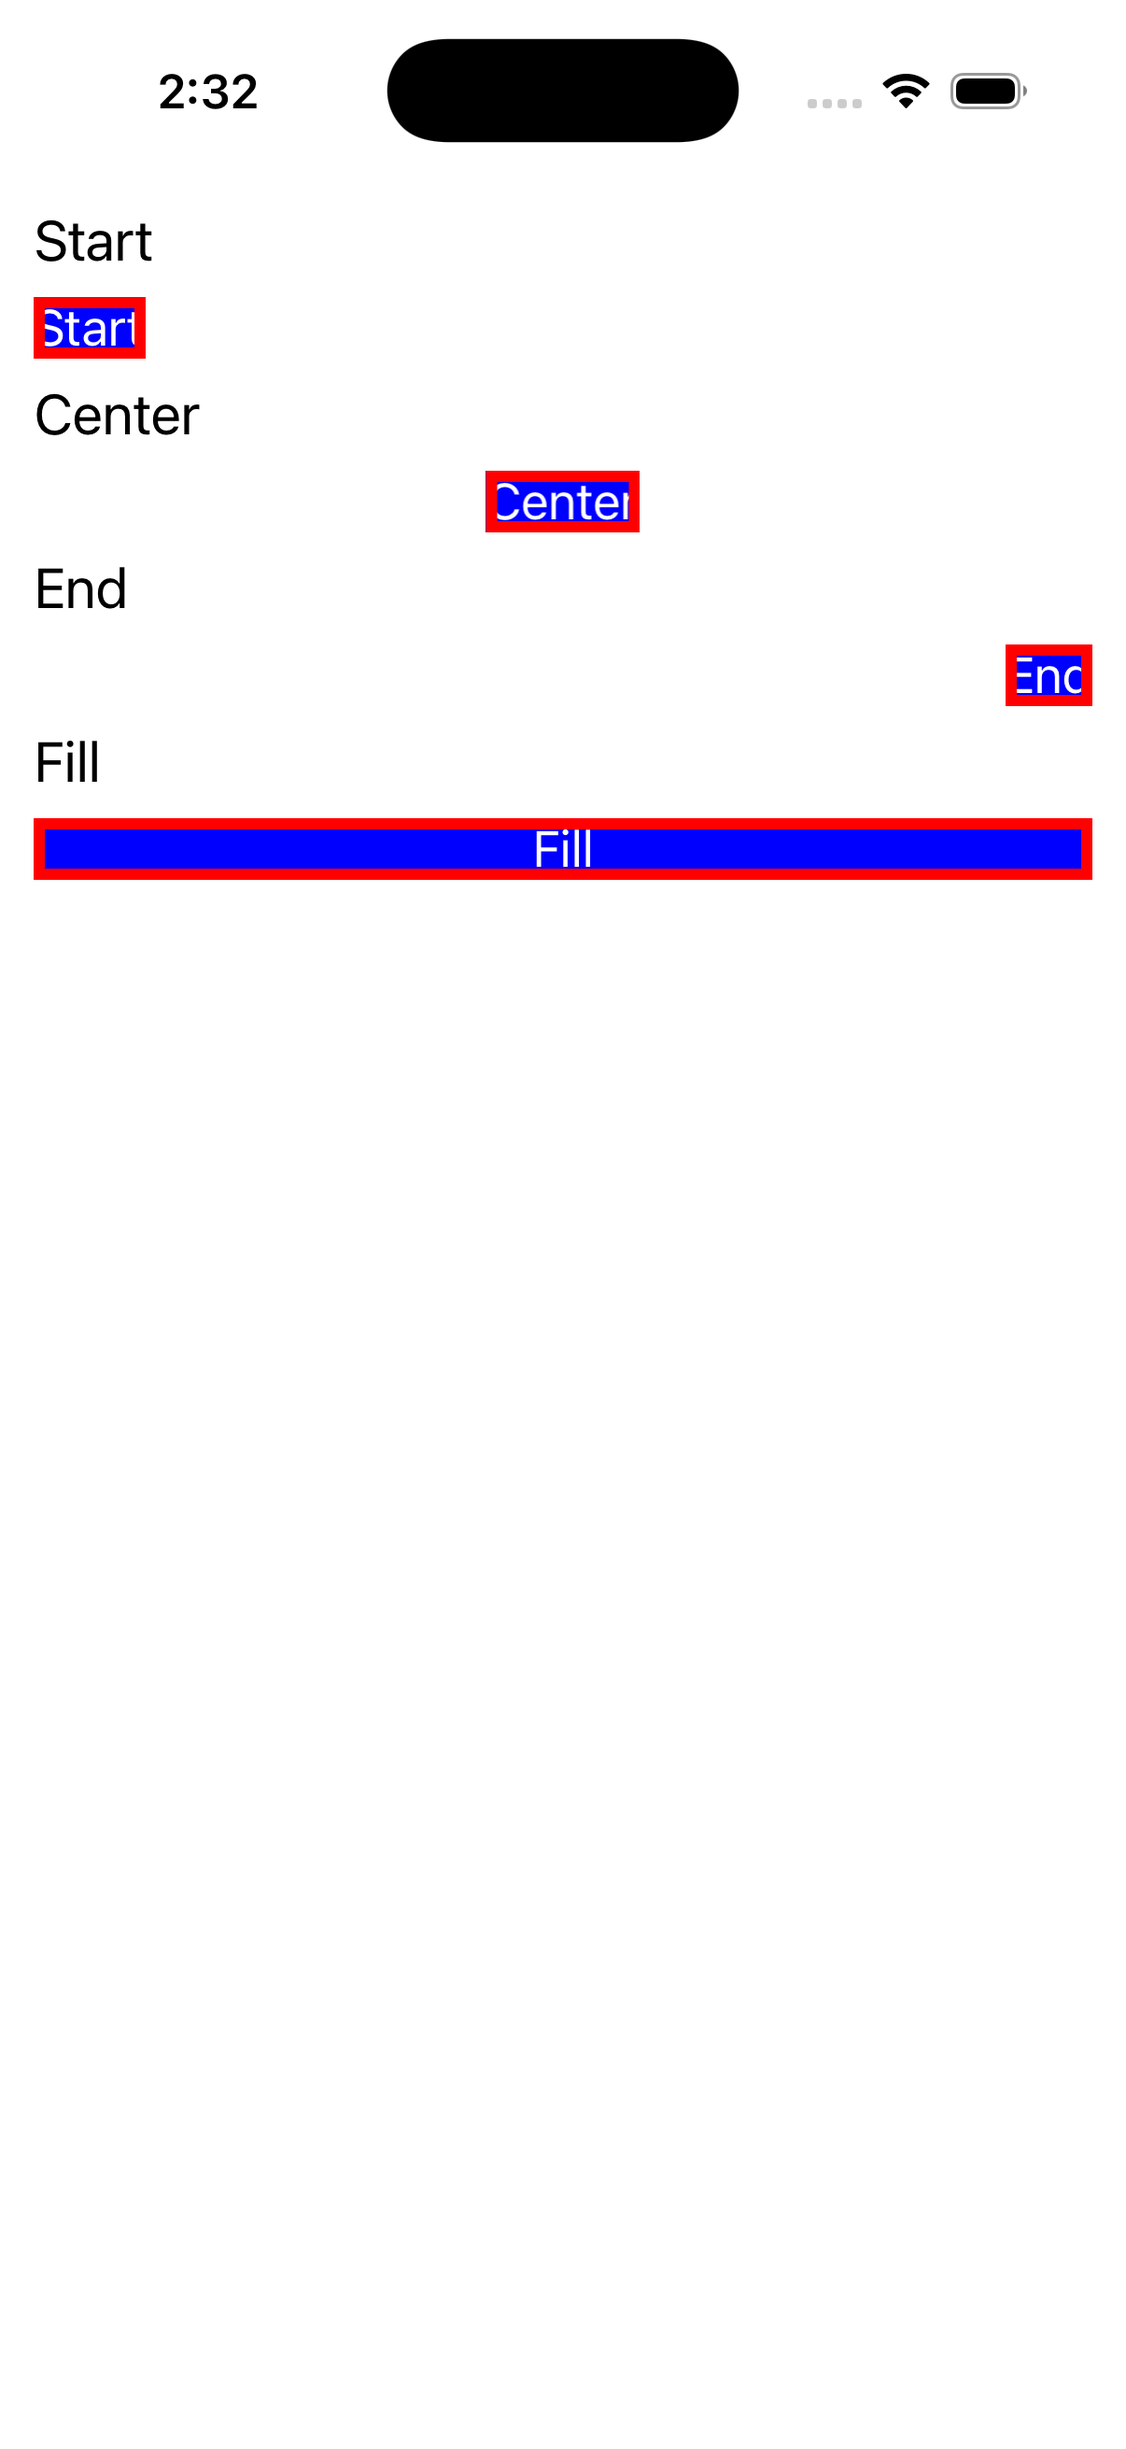
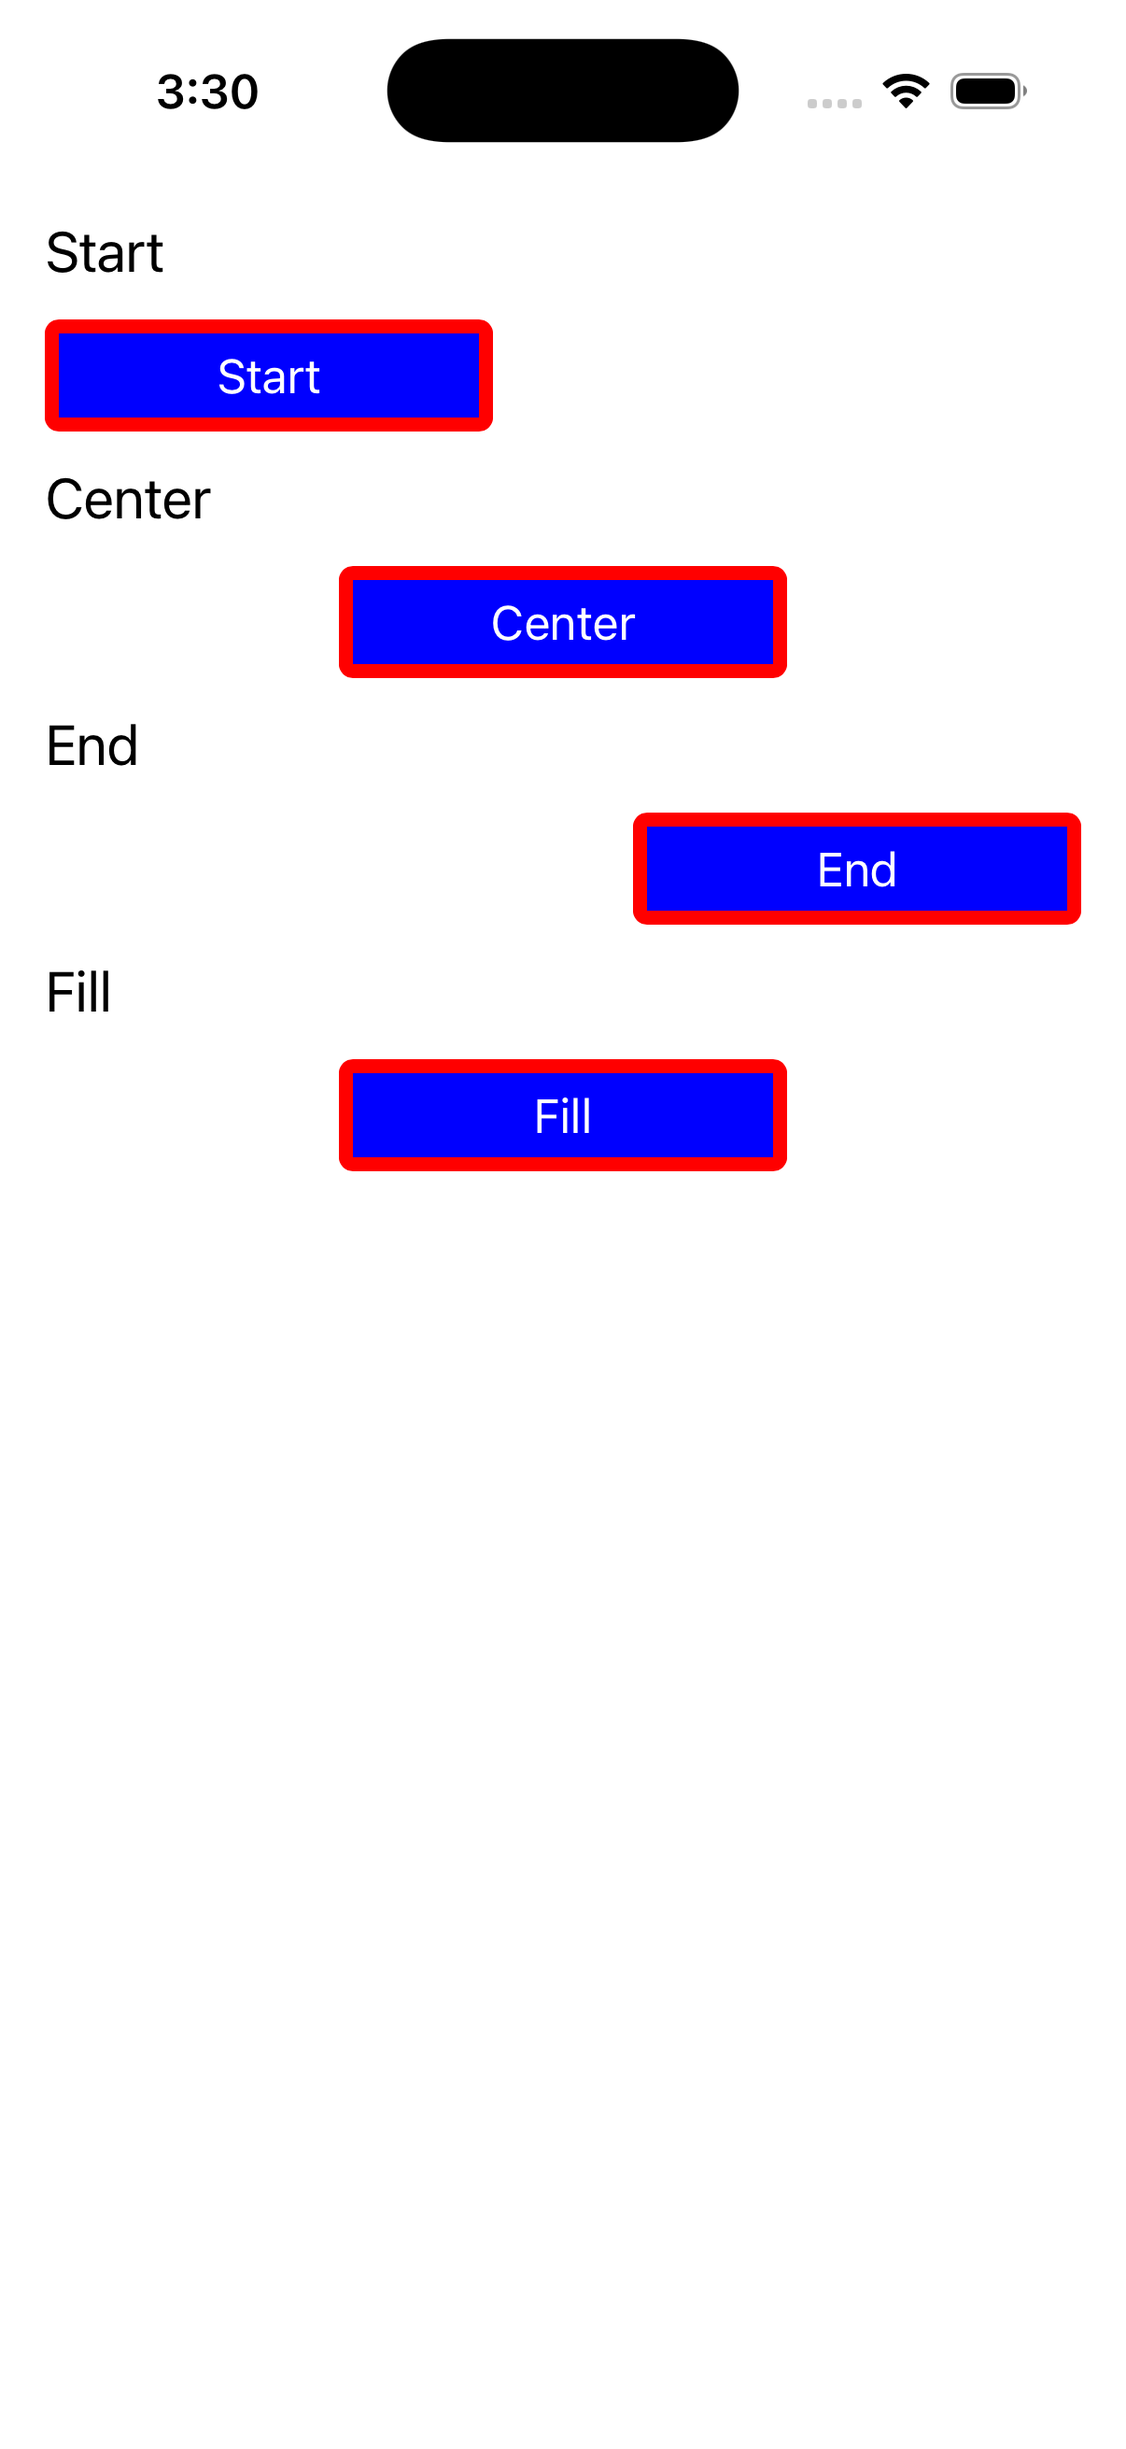
fix(border,samples): alignment demo matches maui-compare + border honors WidthRequest/alignment
- alignment_page rewritten to reproduce ComparePages.Alignment() 1:1: a
  Border (red 5pt stroke, RoundRectangle CR=5, FIXED 160x40) wrapping a
  centered blue/white Label, per HorizontalOptions Start/Center/End/Fill,
  FontSize=20 bold headers (was a button-based approximation).
- FRAMEWORK FIX: border::arrange filled the allotted cell (frame_ = bounds)
  instead of resolving its own aligned, size-requested frame. Now uses
  compute_frame(bounds) (the LayoutExtensions.ComputeFrame the leaf
  view<>::arrange runs) so a Border with WidthRequest + non-Fill alignment
  lands correctly: 160-wide Start(left)/Center+Fill(centered)/End(right),
  matching MAUI. Fill borders with no explicit size are unchanged.
  Verified on-sim both themes; full headless 3066/3066 green.
- Fixed shapes_page_tests.cpp (the shapes_page rewrite in 2d665e51c2 had
  left it referencing the removed canvas/box/marker API -> the test build
  was broken on the branch; now tests the Ellipse/Rectangle/Polygon/Line).

diff --git a/port/cpp/src/samples/pages/alignment_page.hpp b/port/cpp/src/samples/pages/alignment_page.hpp
@@ -1,32 +1,35 @@
 #pragma once
-// maui::samples::alignment_page — demonstrates per-child layout alignment (View.HorizontalOptions /
-// LayoutOptions Start/Center/End/Fill), the modern MAUI replacement for the legacy alignment knobs.
+// maui::samples::alignment_page — a faithful reproduction of the maui-compare "alignment" demo
+// (ComparePages.Alignment()), the shipped-.NET-MAUI reference for the visual-parity comparison.
 //
-// Mirrors the maui-compare "alignment" demo: a vertical stack of four sections, each a bold section
-// header label naming an alignment, followed by a button carrying that HorizontalOptions value. Because a
-// vertical_stack_layout gives every child the full stack width, each button's horizontal_layout_alignment
-// decides where it lands inside that width: Start = content-width pinned left, Center = centered, End =
-// pinned right, Fill = stretched edge-to-edge. The arrange-time ComputeFrame (view<>::align_horizontal,
-// ported from C# LayoutExtensions.AlignHorizontal) is what honors the value — this page is its visual
-// proof. The buttons are blue-filled with a red stroke and white text so the alignment is unmistakable.
+// A VerticalStackLayout (Spacing 12, Padding 16) of four sections, each a bold FontSize-20 header naming a
+// LayoutOptions value followed by a Border that carries that HorizontalOptions: the Border has a red 5pt
+// stroke, a RoundRectangle StrokeShape (CornerRadius 5), a FIXED WidthRequest 160 / HeightRequest 40, and
+// wraps a Label (white text on a blue background, centered both ways). Because the Border has an explicit
+// width, its HorizontalOptions (Start/Center/End/Fill) decides where it lands in the stack's width —
+// Start pinned left, Center centered, End pinned right, Fill stretched (a Fill border with an explicit
+// width renders centered, the MAUI rule the port's view<>::align_horizontal mirrors). Kept 1:1 with the
+// C# reference (same controls, colors, sizes, captions, order).
 //
 // The page OWNS its whole element tree (the sample_app pattern). It is backend-agnostic — a sample main
 // attaches handlers bottom-up via the hosting layer and hosts page() in a window; the headless/apple/ios
 // test trees exercise the same controls directly.
 
 #include <array>
+#include <cstddef>
 #include <memory>
-#include <utility>
 
-#include "maui/controls/brushes/solid_color_brush.hpp"
-#include "maui/controls/button.hpp"
+#include "maui/controls/border.hpp"
 #include "maui/controls/content_page.hpp"
 #include "maui/controls/label.hpp"
 #include "maui/controls/vertical_stack_layout.hpp"
 #include "maui/core/font.hpp"
 #include "maui/core/layout_alignment.hpp"
+#include "maui/core/text_alignment.hpp"
 #include "maui/core/thickness.hpp"
 #include "maui/graphics/colors.hpp"
+#include "maui/graphics/shapes/round_rectangle.hpp"
+#include "maui/graphics/solid_paint.hpp"
 #include "maui/hosting/maui_app.hpp"
 
 #include "gallery_attach.hpp"
@@ -35,49 +38,52 @@ namespace maui::samples
 {
     class alignment_page
     {
-        // One section per LayoutOptions value: the header caption and the alignment it demonstrates.
-        struct row
-        {
-            const char* caption;
-            maui::core::layout_alignment alignment;
-        };
-        static constexpr std::array<row, 4> k_rows{{
-            {"Start", maui::core::layout_alignment::start},
-            {"Center", maui::core::layout_alignment::center},
-            {"End", maui::core::layout_alignment::end},
-            {"Fill", maui::core::layout_alignment::fill},
-        }};
+        static constexpr std::size_t k_count = 4;
+        static constexpr std::array<const char*, k_count> k_names{"Start", "Center", "End", "Fill"};
+        static constexpr std::array<maui::core::layout_alignment, k_count> k_aligns{
+            maui::core::layout_alignment::start, maui::core::layout_alignment::center,
+            maui::core::layout_alignment::end, maui::core::layout_alignment::fill};
 
     public:
         alignment_page()
         {
-            page_.set_title("Alignment");
-            root_.set_padding(maui::core::thickness(12));
-            root_.set_spacing(8);
+            page_.set_title("Border Alignment"); // ComparePages: Page("Border Alignment", ...).
+            stack_.set_spacing(12);
+            stack_.set_padding(maui::core::thickness(16));
 
-            for (std::size_t i = 0; i < k_rows.size(); ++i)
+            const auto header_font = maui::core::font::system_font_of_size(20.0, maui::core::font_weight::bold);
+
+            for (std::size_t i = 0; i < k_count; ++i)
             {
-                const row& r = k_rows.at(i);
+                section& sec = sections_.at(i);
+                const char* const name = k_names.at(i);
 
-                // The section header (a bold, content-height caption above its button).
-                maui::controls::label& header = headers_.at(i);
-                header.set_text(r.caption);
-                header.set_font(maui::core::font::system_font_of_size(20.0));
-                root_.add(header);
+                // The bold FontSize-20 section header.
+                sec.header.set_text(name);
+                sec.header.set_font(header_font);
 
-                // The button carrying this row's HorizontalOptions — blue fill, red stroke, white text.
-                maui::controls::button& btn = buttons_.at(i);
-                btn.set_text(r.caption);
-                btn.set_text_color(maui::graphics::colors::white);
-                btn.set_background_brush(
-                    std::make_shared<maui::controls::solid_color_brush>(maui::graphics::colors::blue));
-                btn.set_stroke_color(maui::graphics::colors::red);
-                btn.set_stroke_thickness(4.0);
-                btn.set_horizontal_layout_alignment(r.alignment);
-                root_.add(btn);
+                // The Label content: white text on a blue background, centered both ways.
+                sec.caption.set_text(name);
+                sec.caption.set_text_color(maui::graphics::colors::white);
+                sec.caption.set_background(std::make_shared<maui::graphics::solid_paint>(maui::graphics::colors::blue));
+                sec.caption.set_horizontal_text_alignment(maui::core::text_alignment::center);
+                sec.caption.set_vertical_text_alignment(maui::core::text_alignment::center);
+
+                // The Border: red 5pt stroke, RoundRectangle CornerRadius 5, FIXED 160x40, carrying that
+                // section's HorizontalOptions (the alignment under test) over the Label content.
+                sec.bordered.set_stroke(std::make_shared<maui::graphics::solid_paint>(maui::graphics::colors::red));
+                sec.bordered.set_stroke_thickness(5);
+                sec.bordered.set_stroke_shape(std::make_shared<maui::graphics::shapes::round_rectangle>(5.0));
+                sec.bordered.set_width_request(160);
+                sec.bordered.set_height_request(40);
+                sec.bordered.set_horizontal_layout_alignment(k_aligns.at(i));
+                sec.bordered.set_content(sec.caption);
+
+                stack_.add(sec.header);
+                stack_.add(sec.bordered);
             }
 
-            page_.set_content(root_);
+            page_.set_content(stack_);
         }
 
         [[nodiscard]] maui::controls::content_page& page()
@@ -85,36 +91,49 @@ namespace maui::samples
             return page_;
         }
 
-        // Attach a handler to every OWNED view, BOTTOM-UP (the section headers + buttons first, then the
-        // stack, then the page), then re-host the tree built in the ctor (gallery_attach.hpp).
+        // Attach a handler to every OWNED view, BOTTOM-UP (each section's caption + border + header, then
+        // the stack, then the page), then re-host the tree built in the ctor (gallery_attach.hpp).
         void attach_handlers(maui::hosting::maui_app& app)
         {
-            for (std::size_t i = 0; i < k_rows.size(); ++i)
+            for (std::size_t i = 0; i < k_count; ++i)
             {
-                gallery_attach_one(app, headers_.at(i), "alignment_header");
-                gallery_attach_one(app, buttons_.at(i), "alignment_button");
+                section& sec = sections_.at(i);
+                gallery_attach_one(app, sec.caption, "caption");
+                gallery_attach_one(app, sec.bordered, "bordered");
+                gallery_attach_one(app, sec.header, "header");
             }
-            gallery_attach_one(app, root_, "root_");
+            gallery_attach_one(app, stack_, "stack_");
             gallery_attach_one(app, page_, "page_");
 
-            gallery_rehost_layout(root_); // the stack hosts the headers + buttons
-            gallery_rehost_content(page_);
+            for (std::size_t i = 0; i < k_count; ++i)
+            {
+                gallery_rehost_content(sections_.at(i).bordered); // each border hosts its caption label
+            }
+            gallery_rehost_layout(stack_); // the stack hosts the header + border pairs
+            gallery_rehost_content(page_); // the page hosts the stack
         }
 
         // The owned controls, exposed for tests / the hosting main's bottom-up attachment.
         [[nodiscard]] maui::controls::vertical_stack_layout& root()
         {
-            return root_;
+            return stack_;
         }
-        [[nodiscard]] maui::controls::button& button_at(std::size_t i)
+        [[nodiscard]] maui::controls::border& section_border(std::size_t index)
         {
-            return buttons_.at(i);
+            return sections_.at(index).bordered;
         }
 
     private:
+        // One alignment section: a bold header + a red-bordered fixed-size cell carrying a centered caption.
+        struct section
+        {
+            maui::controls::label header;
+            maui::controls::border bordered;
+            maui::controls::label caption;
+        };
+
         maui::controls::content_page page_;
-        maui::controls::vertical_stack_layout root_;
-        std::array<maui::controls::label, 4> headers_;
-        std::array<maui::controls::button, 4> buttons_;
+        maui::controls::vertical_stack_layout stack_;
+        std::array<section, k_count> sections_;
     };
 } // namespace maui::samples

diff --git a/port/cpp/tests/controls/shapes_page_tests.cpp b/port/cpp/tests/controls/shapes_page_tests.cpp
@@ -1,17 +1,10 @@
-// Tests for the shapes_page demo (src/samples/pages/shapes_page.hpp) — backend-agnostic: the page
-// is pure cross-platform control wiring, so this suite compiles in every preset and proves the
-// demo's structure (the stack hosting graphics_view/box_view/the shape family), the per-control
-// decoration, and the canvas interaction → readout wiring without a hosting main.
+// Tests for the shapes_page demo (src/samples/pages/shapes_page.hpp) — a faithful reproduction of the
+// maui-compare Shapes() reference (Ellipse / RoundRectangle / EvenOdd Polygon / Line). Backend-agnostic:
+// the page is pure cross-platform control wiring, so this suite compiles in every preset and proves the
+// demo's structure + per-shape decoration without a hosting main.
 #include "src/samples/pages/shapes_page.hpp"
 
-#include <memory>
-#include <vector>
-
 #include "maui/controls/shapes/fill_rule.hpp"
-#include "maui/core/i_graphics_view.hpp"
-#include "maui/graphics/point_f.hpp"
-#include "maui/graphics/recording_canvas.hpp"
-#include "maui/graphics/rect_f.hpp"
 #include <gtest/gtest.h>
 
 namespace
@@ -21,35 +14,30 @@ namespace
     TEST(shapes_page, builds_the_shape_tree)
     {
         shapes_page demo;
-        EXPECT_EQ(demo.page().content(), &demo.stack());
-        EXPECT_EQ(demo.stack().count(), 8); // readout + canvas + box + rect/ellipse/line/polygon/path
+        // The stack hosts four bold captions interleaved with the four shapes.
+        EXPECT_EQ(demo.stack().count(), 8);
 
-        EXPECT_NE(demo.canvas().drawable(), nullptr);
-        EXPECT_TRUE(demo.box().has_color());
-        EXPECT_EQ(demo.rounded_rect().radius_x(), 10.0);
-        ASSERT_NE(demo.rounded_rect().stroke(), nullptr);
-        EXPECT_EQ(demo.divider().stroke_dash_pattern().size(), 2U);
-        EXPECT_EQ(demo.star().points().size(), 5U);
-        EXPECT_EQ(demo.star().fill_rule(), maui::controls::shapes::fill_rule::even_odd);
-        ASSERT_NE(demo.marker().data(), nullptr);
-        EXPECT_FALSE(demo.marker().data()->path_for_bounds({}).points().empty());
-        EXPECT_TRUE(demo.marker().render_transform_matrix().has_value());
-    }
+        // Ellipse: red fill + dark-blue stroke (StrokeThickness 4).
+        ASSERT_NE(demo.ellipse().fill(), nullptr);
+        ASSERT_NE(demo.ellipse().stroke(), nullptr);
+        EXPECT_EQ(demo.ellipse().stroke_thickness(), 4.0);
 
-    TEST(shapes_page, canvas_interaction_drives_the_readout)
-    {
-        shapes_page demo;
-        maui::core::i_graphics_view& contract = demo.canvas();
-        contract.send_start_interaction({maui::graphics::point_f(12, 34)});
-        EXPECT_EQ(demo.readout().text(), "Touched at 12, 34");
-    }
+        // RoundRectangle (a Rectangle): navy fill, RadiusX 12 / RadiusY 24.
+        ASSERT_NE(demo.rect().fill(), nullptr);
+        EXPECT_EQ(demo.rect().radius_x(), 12.0);
+        EXPECT_EQ(demo.rect().radius_y(), 24.0);
 
-    TEST(shapes_page, the_demo_drawable_paints_the_framed_cross)
-    {
-        shapes_page demo;
-        maui::graphics::recording_canvas canvas;
-        demo.canvas().drawable()->draw(canvas, maui::graphics::rect_f(0, 0, 100, 100));
-        // stroke size + color, the frame rectangle, the two diagonals.
-        EXPECT_EQ(canvas.ops().size(), 5U);
+        // EvenOdd Polygon (pentagram): five points, blue fill + red stroke, EvenOdd fill rule.
+        EXPECT_EQ(demo.polygon().points().size(), 5U);
+        EXPECT_EQ(demo.polygon().fill_rule(), maui::controls::shapes::fill_rule::even_odd);
+        ASSERT_NE(demo.polygon().fill(), nullptr);
+        ASSERT_NE(demo.polygon().stroke(), nullptr);
+
+        // Line: (40,0) -> (0,80), purple stroke.
+        EXPECT_EQ(demo.line().x1(), 40.0);
+        EXPECT_EQ(demo.line().y1(), 0.0);
+        EXPECT_EQ(demo.line().x2(), 0.0);
+        EXPECT_EQ(demo.line().y2(), 80.0);
+        ASSERT_NE(demo.line().stroke(), nullptr);
     }
 } // namespace

diff --git a/port/cpp/src/controls/border.cpp b/port/cpp/src/controls/border.cpp
@@ -154,21 +154,29 @@ namespace maui::controls
     // templated_view::arrange (content_view), the sibling single-content host.
     maui::graphics::size border::arrange(const maui::graphics::rect& bounds)
     {
-        frame_ = bounds;
+        // Border : View — resolve this view's own aligned, size-requested FRAME within the allotted
+        // `bounds`, the same LayoutExtensions.ComputeFrame the leaf view<>::arrange runs: it honors this
+        // Border's WidthRequest/HeightRequest (+ Min/Max) and HorizontalOptions/VerticalOptions. Without it
+        // a Border with an explicit Width and a non-Fill alignment filled the whole cell (e.g. the
+        // alignment demo's 160-wide Start/Center/End borders all stretched edge-to-edge). A Fill border
+        // with no explicit size still resolves to `bounds` (compute_frame returns it), so the common case
+        // is unchanged. The native host + its bounds-dependent stroke layer are then framed to that frame.
+        const maui::graphics::rect frame = compute_frame(bounds);
+        frame_ = frame;
         if (auto* view_handler = dynamic_cast<maui::core::i_view_handler*>(handler().get()))
         {
-            view_handler->platform_arrange(bounds);
+            view_handler->platform_arrange(frame);
         }
         if (content_ != nullptr)
         {
             const double stroke_inset = stroke_thickness();
             const maui::core::thickness pad = padding();
             const maui::graphics::rect target{stroke_inset + pad.left, stroke_inset + pad.top,
-                                              bounds.width - (2 * stroke_inset) - pad.horizontal_thickness(),
-                                              bounds.height - (2 * stroke_inset) - pad.vertical_thickness()};
+                                              frame.width - (2 * stroke_inset) - pad.horizontal_thickness(),
+                                              frame.height - (2 * stroke_inset) - pad.vertical_thickness()};
             content_->arrange(target);
         }
-        return {bounds.width, bounds.height};
+        return {frame.width, frame.height};
     }
 } // namespace maui::controls
 
